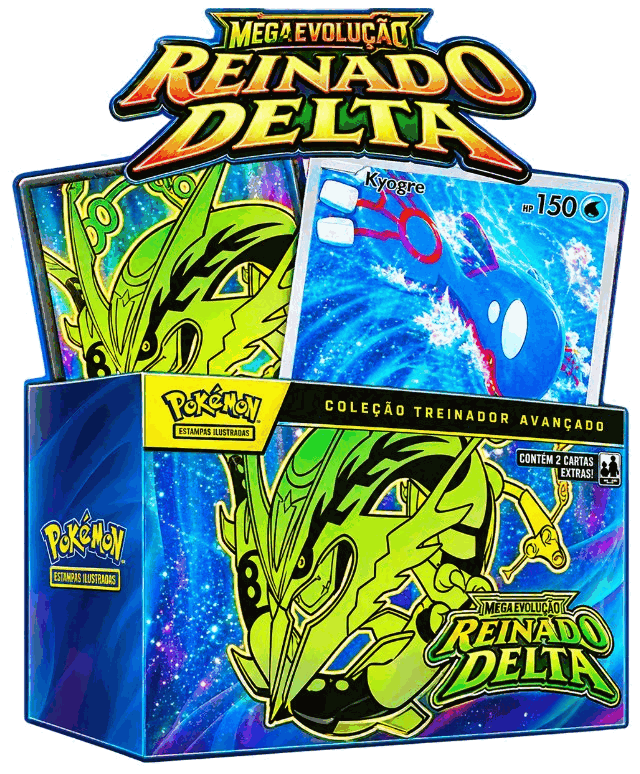
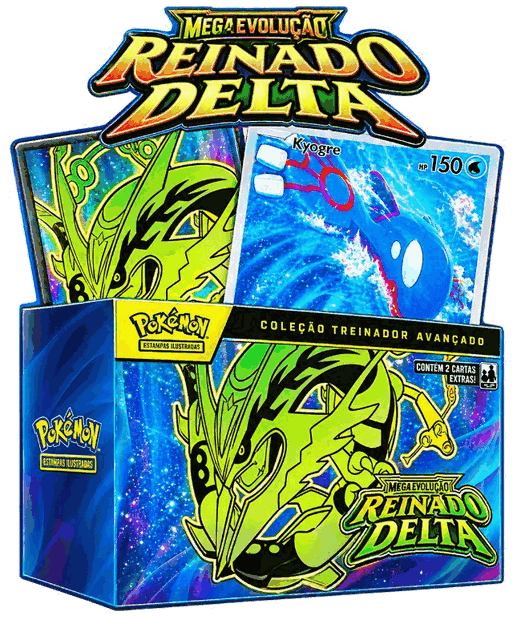
Site mais leve no celular e crédito do desenvolvedor na tela de carregamento.
Logos e arte da pré-venda menores, logos das coleções só carregam ao abrir o menu, brilho dos cards sem repintar a tela, animações de banner escondido paradas e rolagem sem esperar o JavaScript.

diff --git a/js/store.js b/js/store.js
@@ -101,12 +101,12 @@ function shot(product) {
     const own = saved && saved !== logo && !/\/logo\.png(?:$|\?)/.test(saved) && !saved.endsWith("me06-logo.png");
     if (own) return `<div class="shot"><img data-card class="pack" src="${esc(saved)}" alt="${esc(product.name)}" loading="lazy" /></div>`;
     if (!logo) return `<div class="shot"></div>`;
-    return `<div class="shot"><img data-set-logo alt="${esc(product.name)}" src="${esc(logo)}" /></div>`;
+    return `<div class="shot"><img data-set-logo alt="${esc(product.name)}" src="${esc(logo)}" loading="lazy" decoding="async" /></div>`;
   }
   const src = productImage(product);
   if (!src) {
     if (!logo) return `<div class="shot"></div>`;
-    return `<div class="shot"><img data-set-logo alt="${esc(product.name)}" src="${esc(logo)}" /></div>`;
+    return `<div class="shot"><img data-set-logo alt="${esc(product.name)}" src="${esc(logo)}" loading="lazy" decoding="async" /></div>`;
   }
   const fallback = logo ? ` data-fallback="${esc(logo)}"` : "";
   const pack = displayKind(product) === "single" ? "" : ` class="pack${src.includes("sealed-me5-unit") ? " tight" : ""}"`;
@@ -280,7 +280,7 @@ function setsPage() {
     const count = products.filter((product) => product.set_id === set.id).length;
     return `
       <a class="set-card" href="#/set/${esc(encodeURIComponent(set.id))}">
-        <img data-set-logo alt="" src="${esc(setLogoSrc(set.id))}" />
+        <img data-set-logo alt="" src="${esc(setLogoSrc(set.id))}" loading="lazy" decoding="async" />
         <span><strong>${esc(set.name)}</strong><span>${esc(set.code)}${count ? ` · ${count}` : ""}</span></span>
       </a>`;
   }).join("");
@@ -506,7 +506,7 @@ function fillSets() {
   setSelect.innerHTML = `<option value="">Todas as coleções</option>${pickerSets.map((set) => `<option value="${esc(set.id)}">${esc(set.name)}</option>`).join("")}`;
   if ([...setSelect.options].some((option) => option.value === current)) setSelect.value = current;
   const menu = document.getElementById("colecao-menu");
-  menu.innerHTML = `<button type="button" role="option" data-set=""><span>Todas as coleções</span></button>${pickerSets.map((set) => `<button type="button" role="option" data-set="${esc(set.id)}"><img data-set-logo alt="" src="${esc(setLogoSrc(set.id))}" /><span>${esc(set.name)}</span></button>`).join("")}`;
+  menu.innerHTML = `<button type="button" role="option" data-set=""><span>Todas as coleções</span></button>${pickerSets.map((set) => `<button type="button" role="option" data-set="${esc(set.id)}"><img data-set-logo alt="" src="${esc(setLogoSrc(set.id))}" loading="lazy" decoding="async" width="56" height="28" /><span>${esc(set.name)}</span></button>`).join("")}`;
   bindSetLogos(menu);
   paintFilterLogo();
 }
@@ -555,7 +555,7 @@ async function loadShop() {
     loadCatalog().then((list) => {
       catalog = Array.isArray(list) ? list : [];
       fillSets();
-      render();
+      if (chosenSetId()) render();
     }).catch((error) => console.error(error));
   } catch (error) {
     failed = true;

diff --git a/css/store.css b/css/store.css
@@ -18,7 +18,7 @@
 }
 
 * { box-sizing: border-box; }
-html { touch-action: manipulation; }
+html { touch-action: pan-x pan-y; }
 body { margin: 0; overflow-x: clip; background: #f3f4f6; }
 a { color: var(--blue); text-decoration: none; }
 a:hover { color: var(--blue-dark); }
@@ -666,6 +666,9 @@ h2 { font-size: 1.3rem; font-weight: 700; letter-spacing: -0.02em; }
   backdrop-filter: saturate(180%) blur(24px);
   border-radius: 14px;
 }
+@media (hover: none) {
+  .nav, .set-menu { background: #fff; -webkit-backdrop-filter: none; backdrop-filter: none; }
+}
 .meta,
 .qty { color: var(--blue); }
 .grade { border: 0; border-radius: 999px; background: #e8efff; color: var(--blue); }
@@ -736,26 +739,27 @@ main > .home-tabs {
   top: 0;
   bottom: 0;
   left: 0;
-  width: 100%;
+  width: 250%;
   background: linear-gradient(115deg, transparent 20%, rgba(255, 0, 128, .22) 36%, rgba(255, 220, 0, .22) 44%, rgba(0, 255, 170, .22) 52%, rgba(0, 140, 255, .22) 60%, transparent 76%);
-  background-size: 250% 100%;
   mix-blend-mode: color-dodge;
   opacity: .9;
-  transform: none;
+  transform: translateX(-60%);
   animation: card-holo 3.2s ease-in-out infinite;
+  will-change: transform;
 }
-@keyframes card-holo { 0% { background-position: 100% 0; } 100% { background-position: -50% 0; } }
+@keyframes card-holo { from { transform: translateX(-60%); } to { transform: translateX(30%); } }
+@media (hover: none) {
+  .card .shot::after { mix-blend-mode: normal; opacity: .55; }
+}
 .card { position: relative; }
 .card .marks { position: absolute; z-index: 2; top: 10px; left: 10px; margin: 0; gap: 4px; }
 .card .grade {
   padding: 4px 9px;
-  background: rgba(255, 255, 255, .88);
+  background: rgba(255, 255, 255, .95);
   color: #0f172a;
   font-size: .64rem;
   letter-spacing: .06em;
   text-transform: uppercase;
-  -webkit-backdrop-filter: blur(8px);
-  backdrop-filter: blur(8px);
   box-shadow: 0 2px 8px rgba(15, 23, 42, .1);
 }
 .card h3 { margin-top: 2px; color: #0f172a; }
@@ -830,6 +834,21 @@ body.is-loading { overflow: hidden; }
   border-radius: inherit;
   background: linear-gradient(90deg, var(--red), var(--blue));
   animation: splash-slide 1.2s cubic-bezier(.65, 0, .35, 1) infinite;
+}
+.splash-credit {
+  position: absolute;
+  left: 0;
+  right: 0;
+  bottom: max(28px, env(safe-area-inset-bottom));
+  margin: 0;
+  color: var(--muted);
+  font-size: .9rem;
+  text-align: center;
+}
+.splash-credit strong {
+  color: var(--ink);
+  text-decoration: underline;
+  text-underline-offset: 3px;
 }
 .splash.is-done .splash-mark { transform: scale(1.12); transition: transform .45s ease; }
 @keyframes splash-spin { to { transform: rotate(1turn); } }

diff --git a/index.html b/index.html
@@ -10,8 +10,8 @@
   <link rel="preconnect" href="https://fonts.gstatic.com" crossorigin />
   <link rel="stylesheet" href="https://fonts.googleapis.com/css2?family=Manrope:wght@400;500;600;700&display=swap" />
   <link rel="preload" href="/assets/logo.png" as="image" />
-  <link rel="stylesheet" href="/css/store.css?v=66" />
-  <link rel="stylesheet" href="/css/banner-ad.css?v=2" />
+  <link rel="stylesheet" href="/css/store.css?v=68" />
+  <link rel="stylesheet" href="/css/banner-ad.css?v=3" />
 </head>
 <body class="is-loading">
   <div id="splash" class="splash" role="status">
@@ -21,6 +21,7 @@
     </div>
     <div class="splash-bar"><span></span></div>
     <p class="sr">Carregando a vitrine…</p>
+    <p class="splash-credit">Site desenvolvido por <strong>Felipe</strong></p>
   </div>
   <header class="top">
     <a class="logo" href="#/"><img src="/assets/logo.png" alt="Master Bu" width="64" height="52" /></a>
@@ -73,9 +74,8 @@
   <div id="cookies" class="cookies" hidden></div>
   <script>
     document.addEventListener("gesturestart", (event) => event.preventDefault());
-    document.addEventListener("touchmove", (event) => { if (event.touches.length > 1) event.preventDefault(); }, { passive: false });
     document.addEventListener("wheel", (event) => { if (event.ctrlKey) event.preventDefault(); }, { passive: false });
   </script>
-  <script type="module" src="/js/store.js?v=50"></script>
+  <script type="module" src="/js/store.js?v=52"></script>
 </body>
 </html>

diff --git a/css/banner-ad.css b/css/banner-ad.css
@@ -205,8 +205,8 @@
 .is-on .ad .ad-logo { animation: ad-spin .8s .6s cubic-bezier(.34, 1.56, .64, 1) both; }
 .is-on .ad .ad-cta { animation: ad-pop .6s .9s cubic-bezier(.34, 1.56, .64, 1) both; }
 .is-on .ad .ad-cta::before { animation: ad-shine 2.6s 1.6s ease-in-out infinite; }
-.ad .ad-pic { animation: ad-float 3s ease-in-out infinite alternate; }
-.ad-live::before { animation: ad-blink 1.2s ease-in-out infinite; }
+.is-on .ad .ad-pic { animation: ad-float 3s ease-in-out infinite alternate; }
+.is-on .ad-live::before { animation: ad-blink 1.2s ease-in-out infinite; }
 
 @keyframes ad-grow { from { opacity: 0; transform: scale(.4); } to { opacity: 1; transform: none; } }
 @keyframes ad-side { from { opacity: 0; transform: translateX(130%) rotate(16deg); } to { opacity: 1; transform: none; } }

diff --git a/admin/index.html b/admin/index.html
@@ -7,7 +7,7 @@
   <title>Painel · Master Bu</title>
   <link rel="icon" href="/assets/logo.png" />
   <link rel="stylesheet" href="/css/admin.css?v=16" />
-  <link rel="stylesheet" href="/css/banner-ad.css?v=2" />
+  <link rel="stylesheet" href="/css/banner-ad.css?v=3" />
 </head>
 <body>
   <div id="app"></div>
